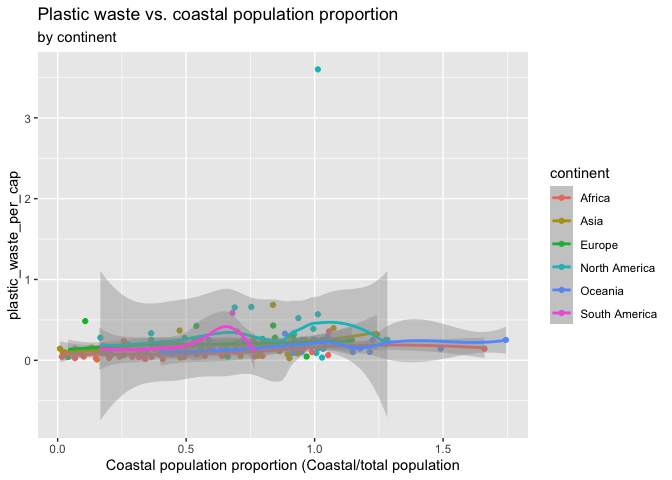
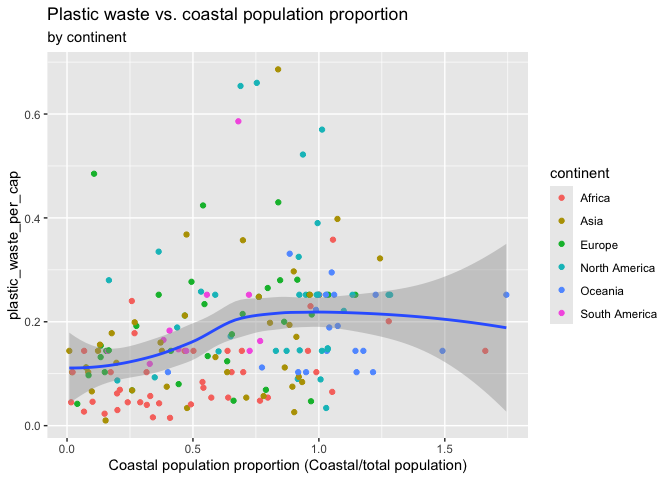
done with exercise 5

diff --git a/lab-02.md b/lab-02.md
@@ -17,8 +17,6 @@ plastic_waste <- read.csv("data/plastic-waste.csv")
 
 ### Exercise 1
 
-Remove this text, and add your answer for Exercise 1 here.
-
 ``` r
 ggplot(data = plastic_waste, aes(x = plastic_waste_per_cap)) + geom_histogram(bindwidth = 0.2) + facet_wrap(~continent)
 ```
@@ -54,8 +52,6 @@ mapping of the graph between the points overall.
 
 ### Exercise 3
 
-Remove this text, and add your answer for Exercise 3 here.
-
 ``` r
 ggplot(plastic_waste, aes(x=continent, y=plastic_waste_per_cap)) + geom_boxplot()
 ```
@@ -80,8 +76,6 @@ more nuance about the spread of the data, outliers, and a fuller picture
 of the clustering of the data.
 
 ### Exercise 4
-
-Remove this text, and add your answer for Exercise 4 here.
 
 ``` r
 ggplot(plastic_waste, aes(x=plastic_waste_per_cap, y= mismanaged_plastic_waste_per_cap)) + geom_point()
@@ -133,30 +127,25 @@ population and plastic waste per capita
 
 ### Exercise 5
 
-Remove this text, and add your answer for Exercise 5 here.
-
 ``` r
 plastic_waste %>%
-  filter(plastic_waste_per_cap > 3)
-```
+  filter(plastic_waste_per_cap < 3) %>%
 
-    ##   code              entity     continent year gdp_per_cap plastic_waste_per_cap
-    ## 1  TTO Trinidad and Tobago North America 2010    31260.91                   3.6
-    ##   mismanaged_plastic_waste_per_cap mismanaged_plastic_waste coastal_pop
-    ## 1                             0.19                    94066     1358433
-    ##   total_pop
-    ## 1   1341465
 
-``` r
-ggplot(plastic_waste, aes(x= coastal_pop/total_pop , y= plastic_waste_per_cap, color = continent)) + geom_jitter() + geom_smooth() + labs(title = "Plastic waste vs. coastal population proportion" , subtitle = "by continent" , x = "Coastal population proportion (Coastal/total population")
+ggplot (aes(x= coastal_pop/total_pop , y= plastic_waste_per_cap)) + geom_point(aes(color=continent)) + geom_smooth(aes(x= coastal_pop/total_pop , y= plastic_waste_per_cap )) + labs(title = "Plastic waste vs. coastal population proportion" , subtitle = "by continent" , x = "Coastal population proportion (Coastal/total population)")
 ```
 
     ## `geom_smooth()` using method = 'loess' and formula = 'y ~ x'
 
-    ## Warning: Removed 61 rows containing non-finite outside the scale range
+    ## Warning: Removed 10 rows containing non-finite outside the scale range
     ## (`stat_smooth()`).
 
-    ## Warning: Removed 61 rows containing missing values or values outside the scale range
+    ## Warning: Removed 10 rows containing missing values or values outside the scale range
     ## (`geom_point()`).
 
-![](lab-02_files/figure-gfm/recreate-viz-1.png)<!-- -->
+![](lab-02_files/figure-gfm/recreate-viz-1.png)<!-- --> Dr. Garrison and
+I decided that it was not worth more effort to turn the confidence
+interval line black; I tinkered enough with this code to achieve the
+goals of exercise 5:) As a summary of this plot it seems that those who
+live on the coast have mostly low levels of plastic waste per capita;
+however, there are outliers.
